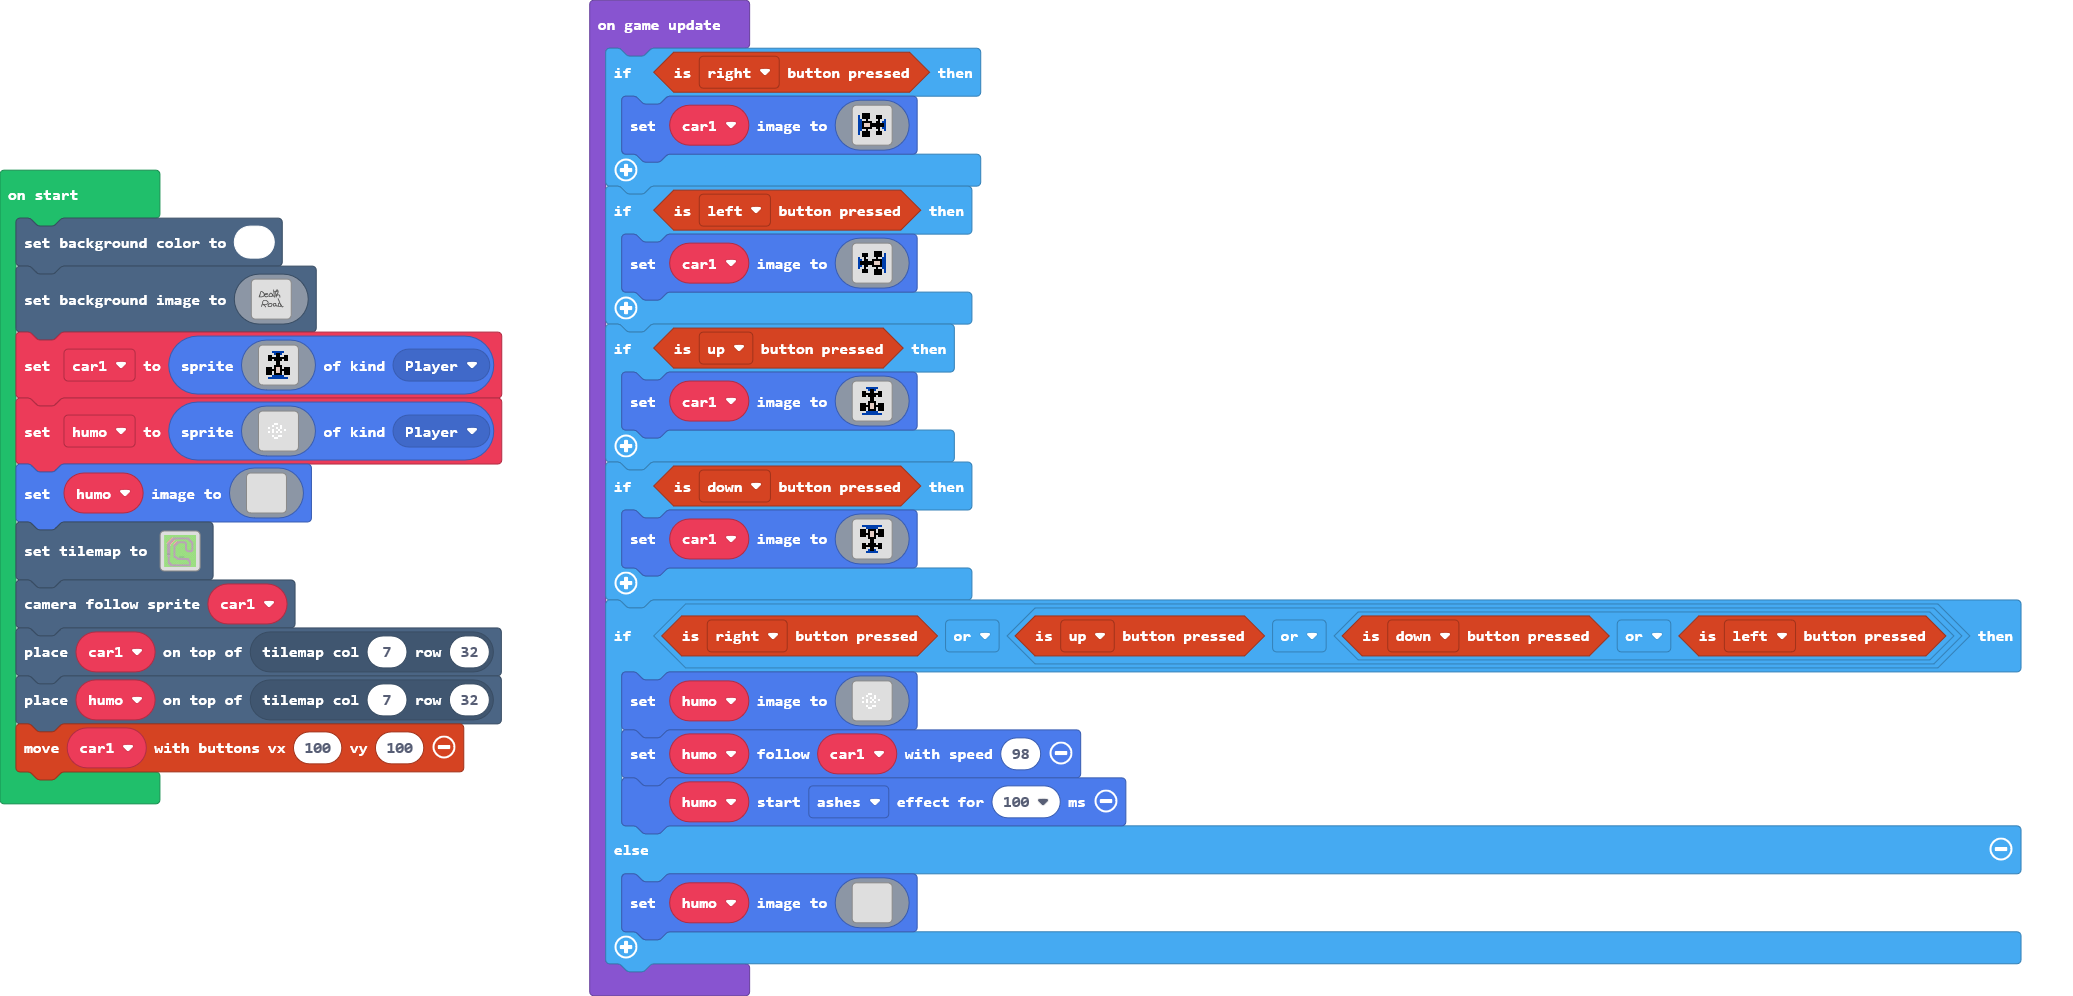
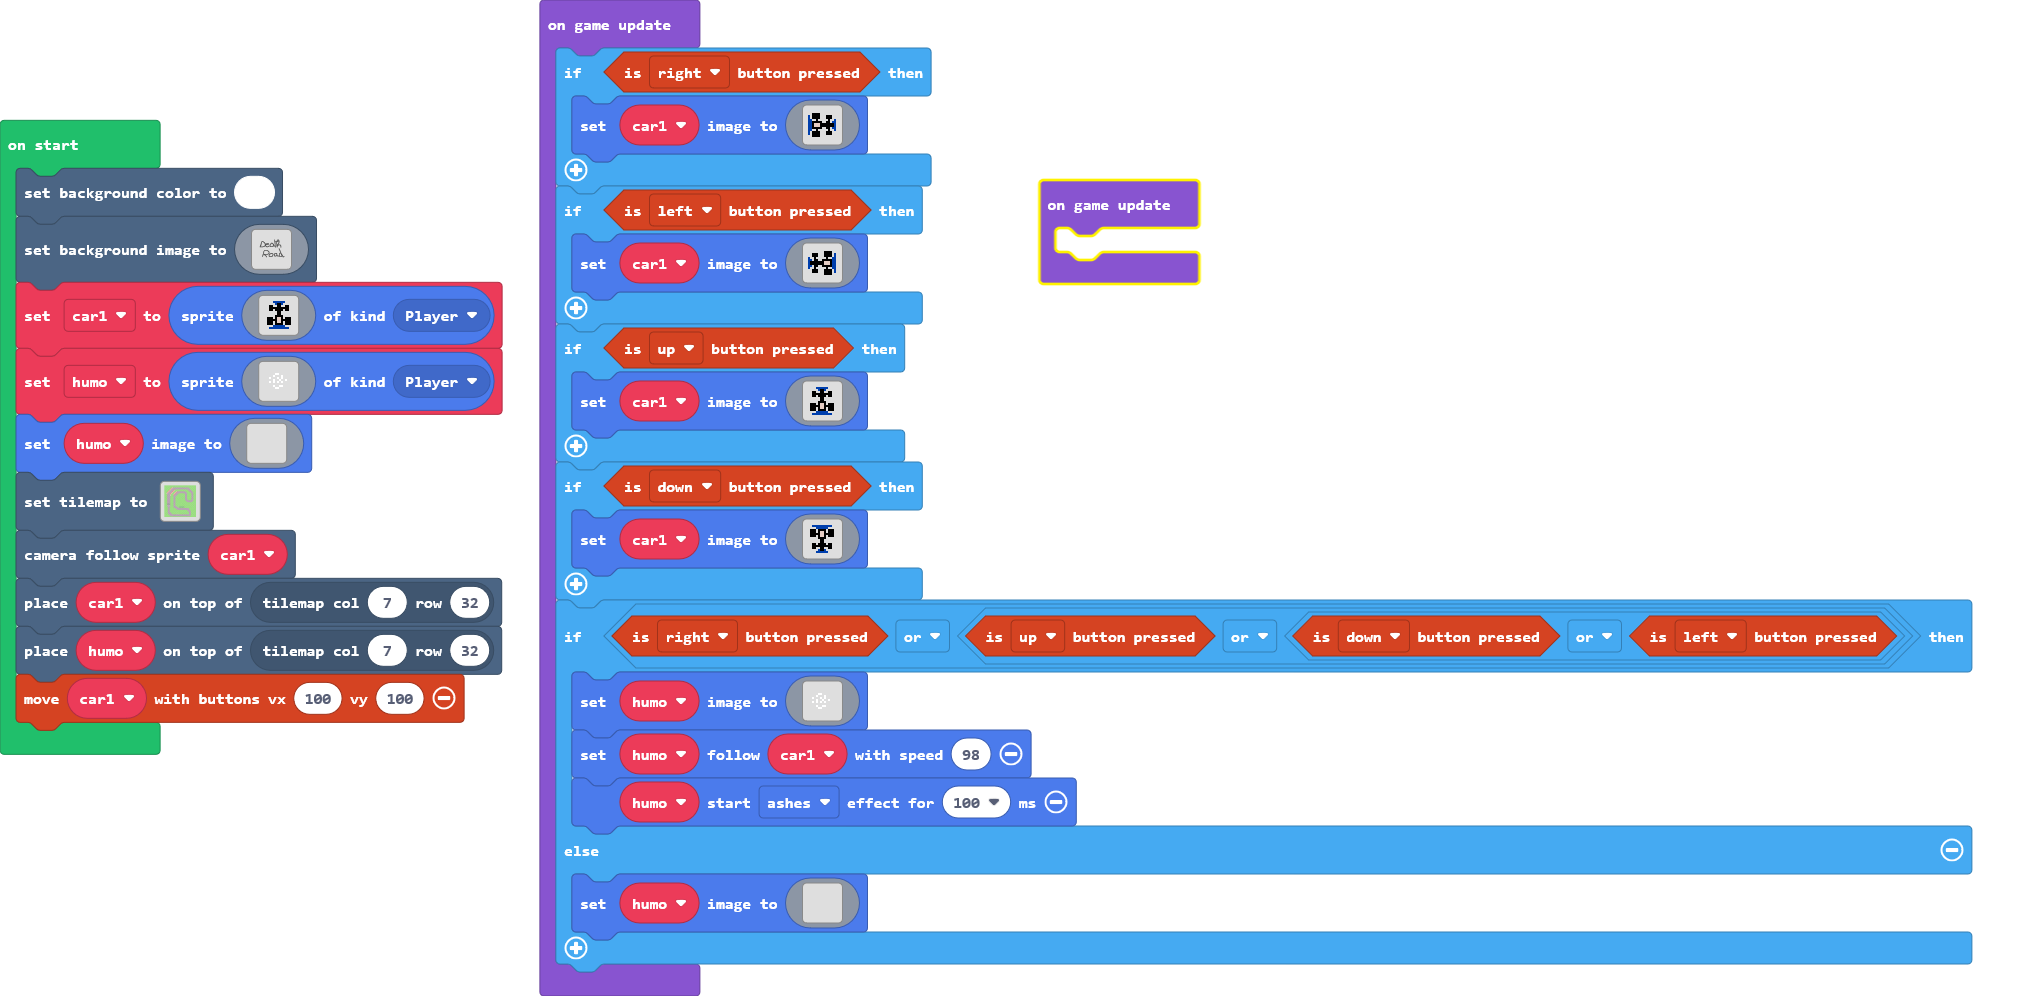
Update main.blocks, main.ts

Changed region(s): [[0.0, 0.0, 0.9654, 1.0], [0.3426, 0.9649, 0.3737, 1.0]]

diff --git a/main.ts b/main.ts
@@ -29,3 +29,6 @@ game.onUpdate(function () {
         humo.setImage(assets.image`vacio`)
     }
 })
+game.onUpdate(function () {
+	
+})
